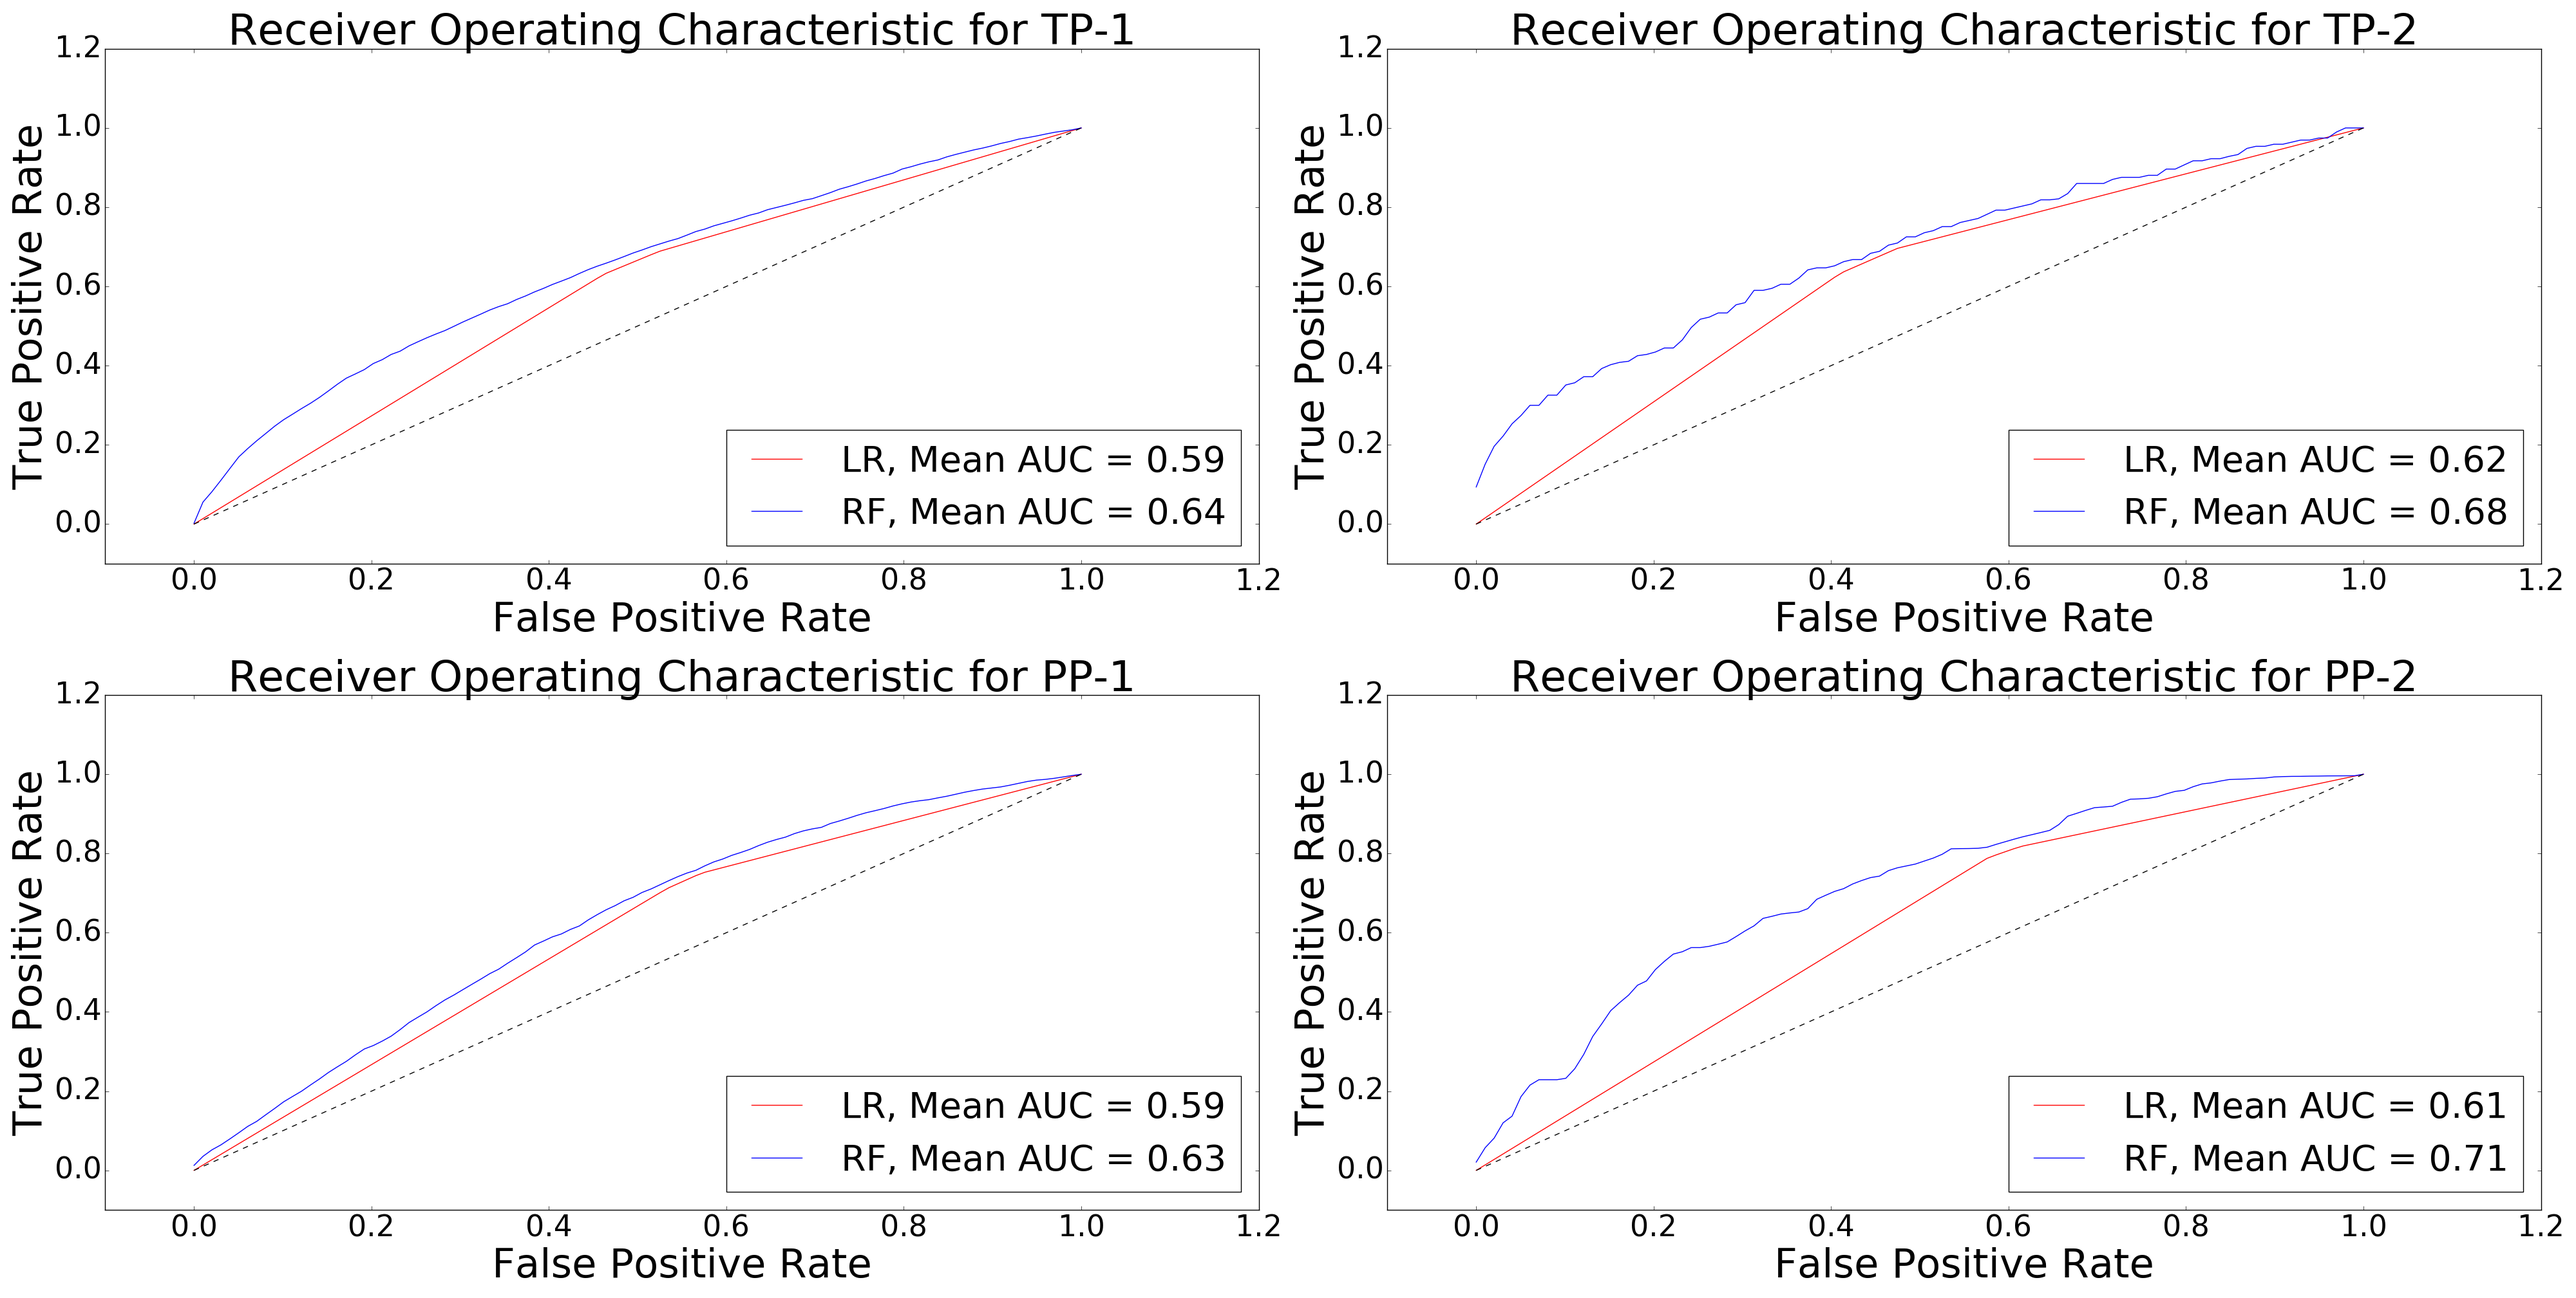
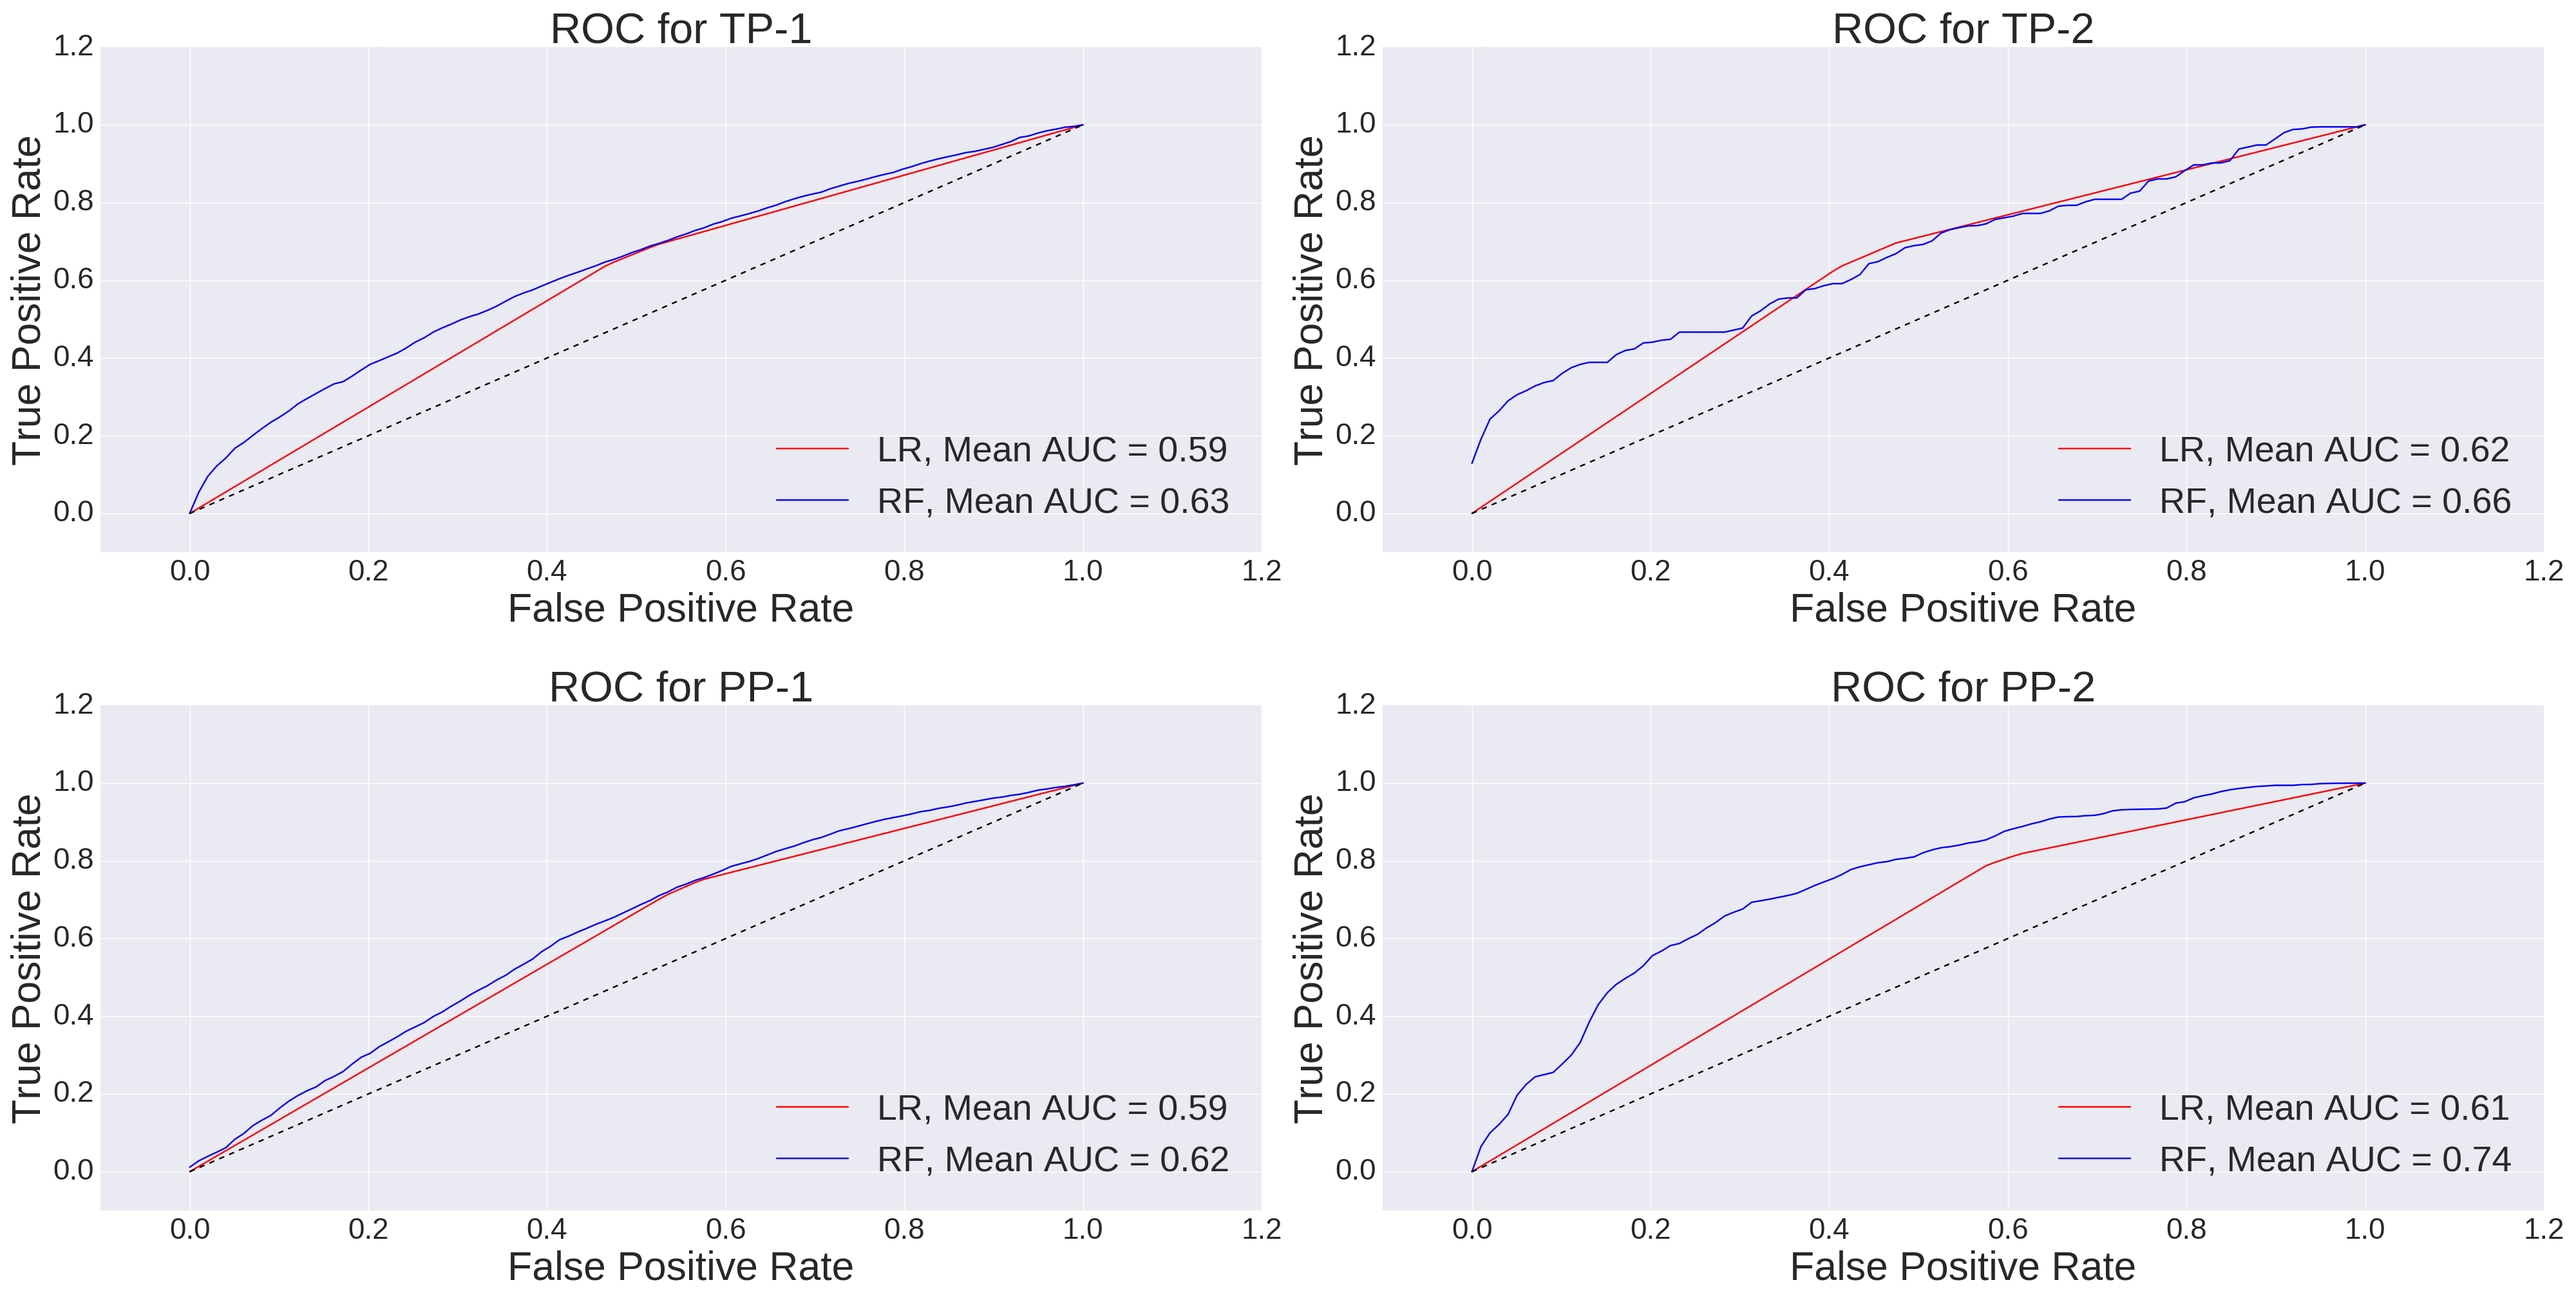
ROCS and feature importance for PP-2 updated

diff --git a/tools/scripts/model_performance.py b/tools/scripts/model_performance.py
@@ -112,7 +112,7 @@ def undersample(X_train, y_train):
     return X_train, y_train
 #[(X_train, y_train, solo_feature_train, X_test, y_test, solo_feature_test),
 # (X_test, y_test, solo_feature_test, X_train, y_train, solo_feature_train)]
-def plot_performance(all_data):
+def plot_performance(all_data, undersampling=False):
     param_grid = {"max_features": sp_randint(1, 10),
                   "criterion": ["gini", "entropy"]
                   }
@@ -147,8 +147,11 @@ def plot_performance(all_data):
                                              param_distributions=param_grid,
                                              scoring="roc_auc", n_jobs=-1,
                                              n_iter=20)
-            undersample_data = undersample(data[0], data[1])
-            grid_search.fit(undersample_data[0], undersample_data[1])
+            if undersampling:
+                temp_data0, temp_data1 = undersample(data[0], data[1])
+                grid_search.fit(temp_data0, temp_data1)
+            else:
+                grid_search.fit(data[0], data[1])
             print(grid_search.best_params_)
             y_pred = grid_search.predict_proba(data[3])[:, 1]
             precision_score_rf[0] += sklearn.metrics.precision_score(data[4], grid_search.predict(data[3]), pos_label=0)
@@ -160,7 +163,7 @@ def plot_performance(all_data):
                 data[4], y_pred)
             mean_tpr_rf += interp(mean_fpr_rf, false_positive_rate, true_positive_rate)
             if pair_name == "PP-2":
-               importances = np.add(grid_search.best_estimator_.feature_importances_, importances)
+                importances = np.add(grid_search.best_estimator_.feature_importances_, importances)
         #if i == 3 and j == 1:
         #    print(importances/2)
         mean_tpr_lr /= 2
@@ -177,7 +180,10 @@ def plot_performance(all_data):
         print("Precision,Recall score (RF) for negative: {},{} and positive: {},{}".format(precision_score_rf[0]/2, recall_score_rf[0]/2, precision_score_rf[1]/2, recall_score_rf[1]/2))
         print("---------")
         # Compute ROC curve and ROC area for each class
-        plt.title('Receiver Operating Characteristic for ' + pair_name)
+        if undersampling:
+            plt.title('ROC for ' + pair_name + " with undersampling")
+        else:
+            plt.title('ROC for ' + pair_name)
         plt.plot(mean_fpr_lr, mean_tpr_lr, 'r',
                  label='LR, Mean AUC = %0.2f' % mean_auc_lr)
         plt.plot(mean_fpr_rf, mean_tpr_rf, 'b',
@@ -197,13 +203,16 @@ def plot_performance(all_data):
     return importances/2
 
 
-def plot_feature_importance(feature_impor, feature_id):
+def plot_feature_importance(feature_impor, feature_id, undersampling):
     feature_impor, feature_id = [list(t) for t in zip(*sorted(zip(feature_impor,
                                                                   feature_id),
                                                               reverse=True))]
     print(feature_impor)
     ax = plt.subplot(1, 1, 1)
-    plt.title("Feature importances of PP-2")
+    if undersampling:
+        plt.title("Feature importances of PP-2 with undersampling")
+    else:
+        plt.title("Feature importances of PP-2")
     plt.bar(range(9), feature_impor,
             color="#e74c3c", align="center")
     plt.xticks(range(9), feature_id)
@@ -216,9 +225,10 @@ def plot_feature_importance(feature_impor, feature_id):
     plt.show()
 
 if __name__ == '__main__':
-    feature_impor = plot_performance(gen_alldata())
+    undersampling = True
+    feature_impor = plot_performance(gen_alldata(), undersampling=undersampling)
     feature_id = [7, 3, 2, 4, 13, 12, 5, 8, 14]
-    plot_feature_importance(feature_impor, feature_id)
+    plot_feature_importance(feature_impor, feature_id, undersampling=undersampling)
 
 
 #num_coocs, num_unique_coocs, diversity, weighted_frequency, sum_weekends, sum_evenings, coocs_w, mutual_cooccurrences, specificity

diff --git a/report/results.tex b/report/results.tex
@@ -57,26 +57,55 @@ In Table \ref{table:models_performance_report} we can see the performance metric
 \hline
 \textbf{Model} & \textbf{PPV +} & \textbf{TPR +} & \textbf{PPV -} & \textbf{TPR -}   \\
 \specialrule{.20em}{.0em}{.0em}
-LR in TP-1    & 0.25 & 0.67 & 0.86 & 0.51\\
+LR in TP-1    & 0.25 & 0.67 & 0.86 & 0.50\\
 \hline
-RF in TP-1    & 0.28 & 0.53 & 0.85 & 0.67\\
+RF in TP-1    & 0.48 & 0.15 & 0.82 & 0.95\\
 \specialrule{.15em}{.0em}{.0em} 
 LR in TP-2    & 0.53 & 0.68 & 0.70 & 0.56\\
 \hline
-RF in TP-2    & 0.52 & 0.59 & 0.68 & 0.60\\
+RF in TP-2    & 0.54 & 0.50 & 0.66 & 0.69\\
 \specialrule{.15em}{.0em}{.0em}
-LR in PP-1    & 0.66 & 0.74 & 0.54 & 0.44\\
+LR in PP-1    & 0.66 & 0.74 & 0.54 & 0.45\\
 \hline
-RF in PP-1    & 0.66 & 0.55 & 0.51 & 0.58\\
+RF in PP-1    & 0.65 & 0.61 & 0.54 & 0.49\\
 \specialrule{.15em}{.0em}{.0em}
 LR in PP-2    & 0.94 & 0.81 & 0.17 & 0.40\\
 \hline
-RF in PP-2    & 0.94 & 0.92 & 0.26 & 0.34\\
+RF in PP-2    & 0.93 & 0.99 & 0.53 & 0.10\\
 \hline
 \end{tabular}
-\caption{Models performance metrics}
+\caption{Models performance metrics without undersampling}
 \label{table:models_performance_report}
 \end{table}
+
+
+\begin{table}[H]
+\centering
+\begin{tabular}{|c|c|c|c|c|c|c|c|c|c|c|}
+\hline
+\textbf{Model} & \textbf{PPV +} & \textbf{TPR +} & \textbf{PPV -} & \textbf{TPR -}   \\
+\specialrule{.20em}{.0em}{.0em}
+LR in TP-1    & 0.25 & 0.67 & 0.86 & 0.50\\
+\hline
+RF in TP-1    & 0.28 & 0.53 & 0.85 & 0.66\\
+\specialrule{.15em}{.0em}{.0em} 
+LR in TP-2    & 0.53 & 0.68 & 0.70 & 0.56\\
+\hline
+RF in TP-2    & 0.53 & 0.64 & 0.69 & 0.58\\
+\specialrule{.15em}{.0em}{.0em}
+LR in PP-1    & 0.66 & 0.74 & 0.54 & 0.45\\
+\hline
+RF in PP-1    & 0.66 & 0.53 & 0.50 & 0.59\\
+\specialrule{.15em}{.0em}{.0em}
+LR in PP-2    & 0.94 & 0.81 & 0.17 & 0.40\\
+\hline
+RF in PP-2    & 0.95 & 0.87 & 0.25 & 0.44\\
+\hline
+\end{tabular}
+\caption{Models performance metrics with undersampling}
+\label{table:models_performance_report_undersampling}
+\end{table}
+
 
 We can further look at the number of classes correctly and incorrectly predicted using a Confusion Matrix. Figure \ref{fig:conf_matrix_log_reg} and \ref{fig:conf_matrix_random_forest} shows the confusion matrices for our two models.
 
